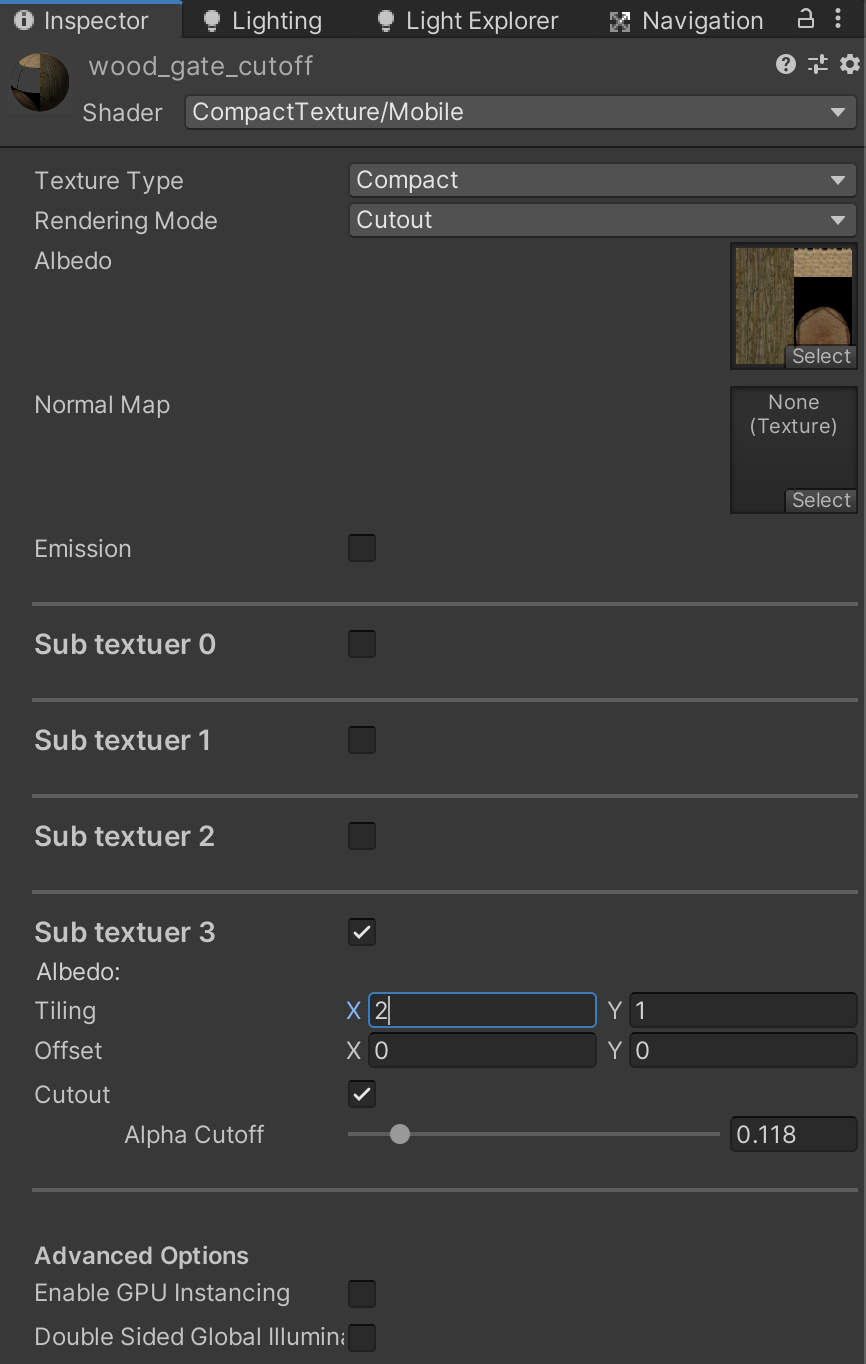
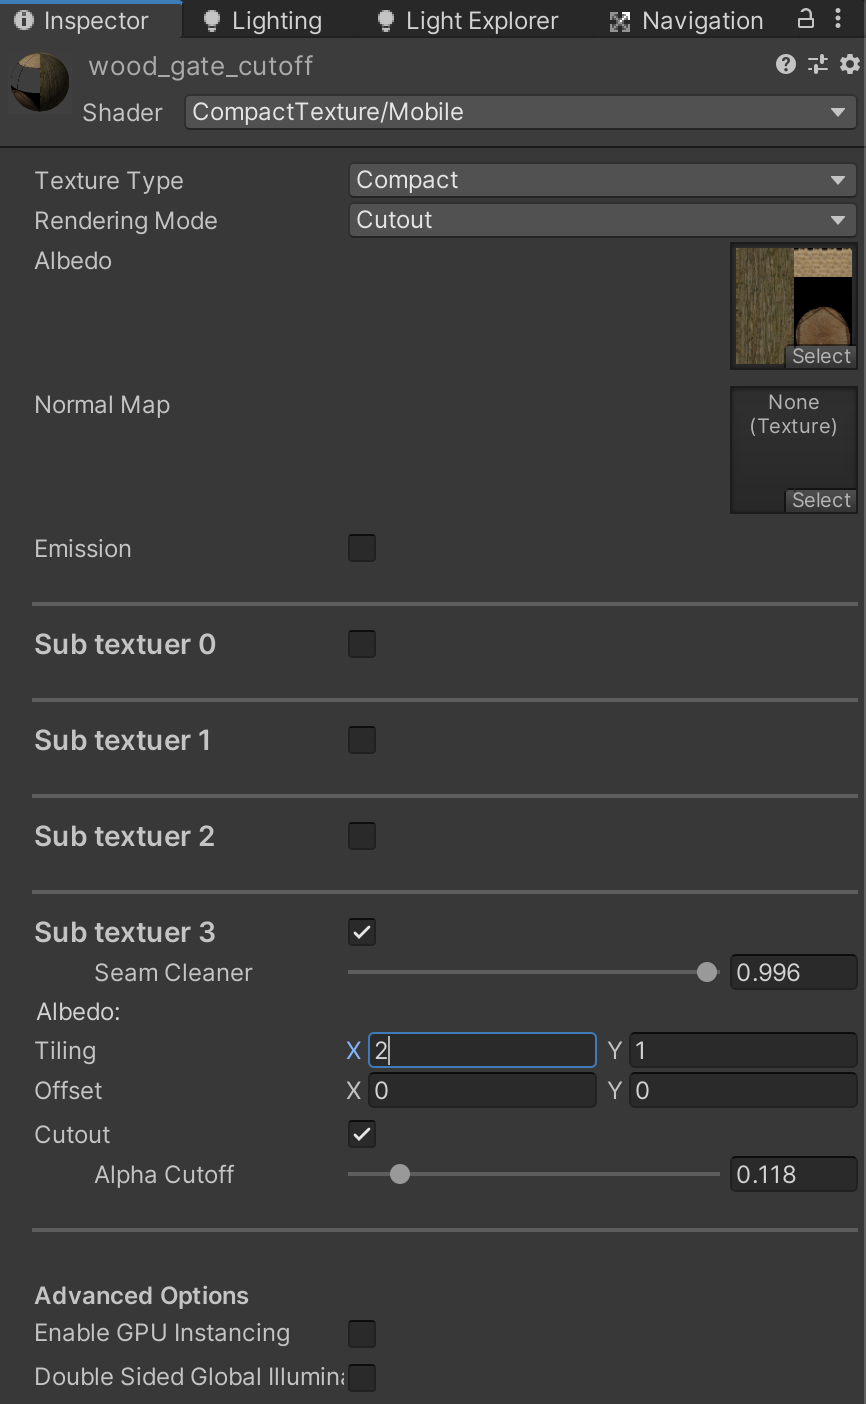
Fixed the bugs of 'Seam Cleaner'

diff --git a/Assets/CompactTexture/Scripts/Editor/CompactTextureMobileShaderGUI.cs b/Assets/CompactTexture/Scripts/Editor/CompactTextureMobileShaderGUI.cs
@@ -30,6 +30,8 @@ internal class CompactTextureMobileShaderGUI : ShaderGUI
         public static GUIContent emissionMapText = EditorGUIUtility.TrTextContent("Emission Map", "Emission Map");
         public static GUIContent emissionColorText = EditorGUIUtility.TrTextContent("Color", "Emission (RGB)");
 
+        public static GUIContent seamCleanerText = EditorGUIUtility.TrTextContent("Seam Cleaner", "Seam Cleaner");
+
         public static string forwardText = "Forward Rendering Options";
         public static string renderingMode = "Rendering Mode";
         public static string advancedText = "Advanced Options";
@@ -61,6 +63,7 @@ internal class CompactTextureMobileShaderGUI : ShaderGUI
         }
 
         public MaterialProperty texEnabled = null;
+        public MaterialProperty seamCleaner = null;
         public MaterialProperty tex = null;
         public MaterialProperty texDummy = null;
         public MaterialProperty normal = null;
@@ -75,6 +78,7 @@ internal class CompactTextureMobileShaderGUI : ShaderGUI
         public void FindeProperties(int index, MaterialProperty[] props)
         {
             texEnabled = FindProperty("_SubTex" + index + "Enabled", props);
+            seamCleaner = FindProperty("_SubSeamCleaner" + index, props);
             tex = FindProperty("_SubTex" + index, props);
             texDummy = FindProperty("_SubTexDummy" + index, props);
             normal = FindProperty("_SubNormal" + index, props);
@@ -247,11 +251,11 @@ internal class CompactTextureMobileShaderGUI : ShaderGUI
         {
             if (shininess != null)
             {
-                m_MaterialEditor.ShaderProperty(shininess, Styles.shininessText.text, MaterialEditor.kMiniTextureFieldLabelIndentLevel + 1);
+                m_MaterialEditor.ShaderProperty(shininess, Styles.shininessText.text, MaterialEditor.kMiniTextureFieldLabelIndentLevel);
             }
             if (mode == BlendMode.Cutout)
             {
-                m_MaterialEditor.ShaderProperty(alphaCutoff, Styles.alphaCutoffText.text, MaterialEditor.kMiniTextureFieldLabelIndentLevel + 1);
+                m_MaterialEditor.ShaderProperty(alphaCutoff, Styles.alphaCutoffText.text, MaterialEditor.kMiniTextureFieldLabelIndentLevel);
             }
         }
 
@@ -261,7 +265,8 @@ internal class CompactTextureMobileShaderGUI : ShaderGUI
         {
             if (isNotCompact)
             {
-                m_MaterialEditor.ShaderProperty(emissionColorForRendering, Styles.emissionColorText, MaterialEditor.kMiniTextureFieldLabelIndentLevel + 1);
+                m_MaterialEditor.ShaderProperty(emissionColorForRendering, Styles.emissionColorText, MaterialEditor.kMiniTextureFieldLabelIndentLevel);
+                //emissionColorForRendering.colorValue = EditorGUILayout.ColorField(Styles.emissionColorText, emissionColorForRendering.colorValue, true, false, true);
             }
             m_HadEmissionTexture = emissionMap.textureValue != null;
             m_MaterialEditor.TextureProperty(emissionMap, Styles.emissionMapText.text);
@@ -295,6 +300,7 @@ internal class CompactTextureMobileShaderGUI : ShaderGUI
                 subProperties[i].texEnabled.floatValue = enabled ? 1 : 0;
                 if (enabled)
                 {
+                    m_MaterialEditor.ShaderProperty(subProperties[i].seamCleaner, Styles.seamCleanerText, MaterialEditor.kMiniTextureFieldLabelIndentLevel);
                     GUILayout.Label("Albedo:");
                     EditorGUILayout.BeginVertical();
                     m_MaterialEditor.TextureScaleOffsetProperty(subProperties[i].texDummy);
@@ -316,7 +322,7 @@ internal class CompactTextureMobileShaderGUI : ShaderGUI
                         subProperties[i].specularEnabled.floatValue = subSpecularEnabled ? 1 : 0;
                         if (subSpecularEnabled)
                         {
-                            m_MaterialEditor.ShaderProperty(subProperties[i].shininess, Styles.shininessText.text, MaterialEditor.kMiniTextureFieldLabelIndentLevel + 1);
+                            m_MaterialEditor.ShaderProperty(subProperties[i].shininess, Styles.shininessText.text, MaterialEditor.kMiniTextureFieldLabelIndentLevel);
                         }
                     }
 
@@ -326,7 +332,7 @@ internal class CompactTextureMobileShaderGUI : ShaderGUI
                         subProperties[i].cutoffEnabled.floatValue = cutoffEnabled ? 1 : 0;
                         if (cutoffEnabled)
                         {
-                            m_MaterialEditor.ShaderProperty(subProperties[i].cutoff, Styles.alphaCutoffText.text, MaterialEditor.kMiniTextureFieldLabelIndentLevel + 1);
+                            m_MaterialEditor.ShaderProperty(subProperties[i].cutoff, Styles.alphaCutoffText.text, MaterialEditor.kMiniTextureFieldLabelIndentLevel);
                         }
                     }
 
@@ -336,7 +342,14 @@ internal class CompactTextureMobileShaderGUI : ShaderGUI
                         subProperties[i].emissionEnabled.floatValue = subEmissionEnabled ? 1 : 0;
                         if (subEmissionEnabled)
                         {
-                            m_MaterialEditor.ShaderProperty(subProperties[i].emissionColorForRendering, Styles.emissionColorText, MaterialEditor.kMiniTextureFieldLabelIndentLevel + 1);
+                            m_MaterialEditor.ShaderProperty(subProperties[i].emissionColorForRendering, Styles.emissionColorText, MaterialEditor.kMiniTextureFieldLabelIndentLevel);
+                            //subProperties[i].emissionColorForRendering.colorValue = EditorGUILayout.ColorField(
+                            //    Styles.emissionColorText,
+                            //    subProperties[i].emissionColorForRendering.colorValue,
+                            //    true,
+                            //    false,
+                            //    true
+                            //    );
 
                             // If texture was assigned and color was black set color to white
                             float brightness = subProperties[i].emissionColorForRendering.colorValue.maxColorComponent;
